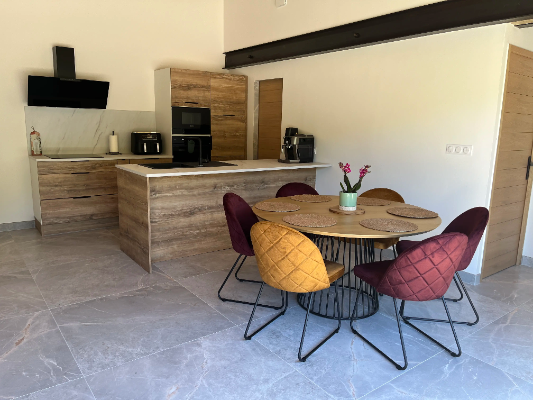
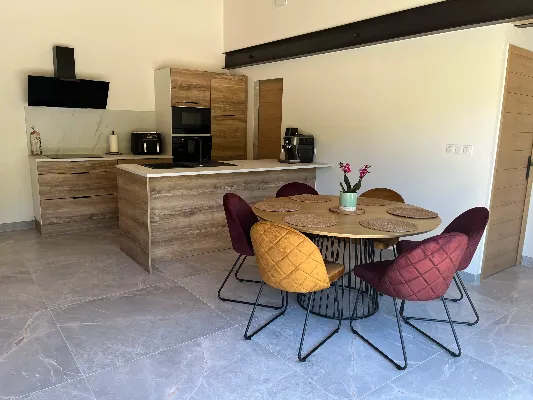
optimisation des images + ajout d'image

diff --git a/photos/index.html b/photos/index.html
@@ -241,6 +241,51 @@
             class="gallery__frame--picture"
           />
         </div>
+        <div class="gallery__frame">
+          <img
+            srcset="../public/photo/IMG_9933_400px.webp"
+            loading="lazy"
+            src="../public/photo/IMG_9933.webp"
+            alt="Piscine de nuit"
+            class="gallery__frame--picture"
+          />
+        </div>
+        <div class="gallery__frame">
+          <img
+            srcset="../public/photo/IMG_9935_400px.webp"
+            loading="lazy"
+            src="../public/photo/IMG_9935.webp"
+            alt="Piscine de nuit"
+            class="gallery__frame--picture"
+          />
+        </div>
+        <div class="gallery__frame">
+          <img
+            srcset="../public/photo/IMG_9937_400px.webp"
+            loading="lazy"
+            src="../public/photo/IMG_9937.webp"
+            alt="Piscine de nuit"
+            class="gallery__frame--picture"
+          />
+        </div>
+        <div class="gallery__frame">
+          <img
+            srcset="../public/photo/IMG_9940_400px.webp"
+            loading="lazy"
+            src="../public/photo/IMG_9940.webp"
+            alt="Piscine de nuit"
+            class="gallery__frame--picture"
+          />
+        </div>
+        <div class="gallery__frame">
+          <img
+            srcset="../public/photo/IMG_9941_400px.webp"
+            loading="lazy"
+            src="../public/photo/IMG_9941.webp"
+            alt="Terrasse de nuit"
+            class="gallery__frame--picture"
+          />
+        </div>
       </section>
     </main>
     <footer class="footer">
